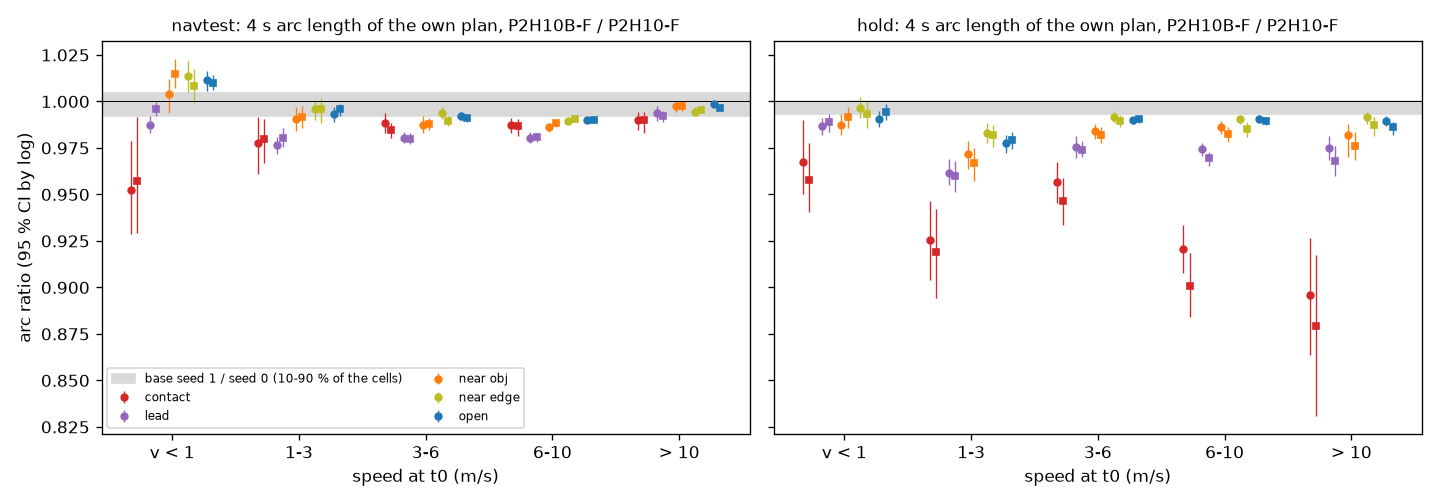
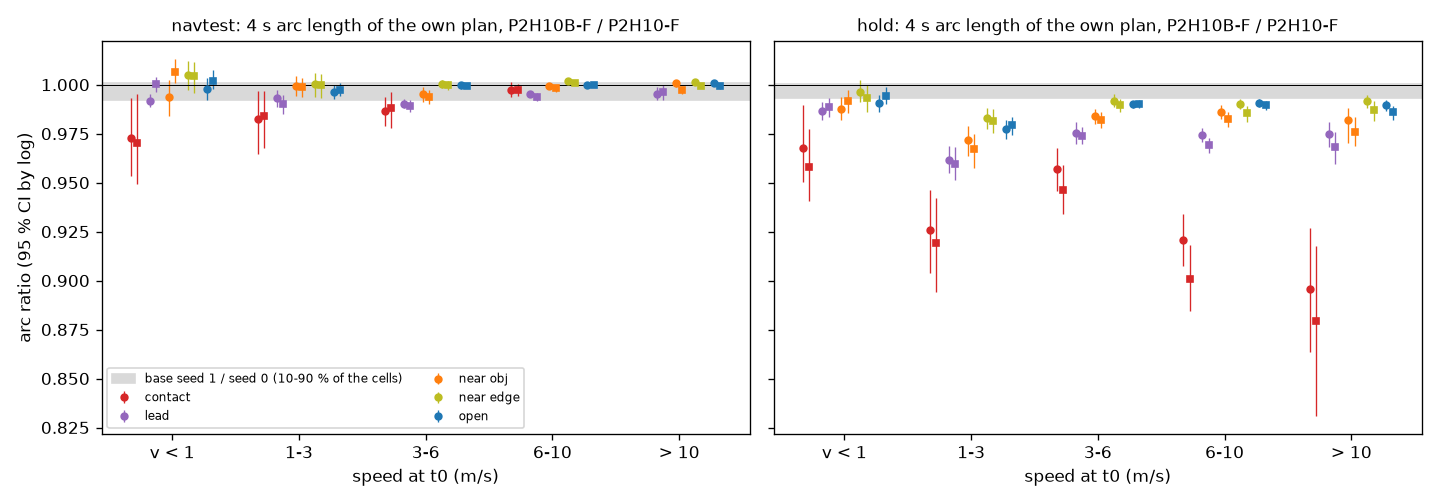
body1: three stale navtest figures redrawn on warp-frame tables (shape_fig.py --res, prog_cl.py figs --warp / --warp-cl), notes removed; Chinese page second-reader check: stale G3 (b) sum row and the lead / open split of section 11 replaced by warp-frame values

diff --git a/research/body1/index.html b/research/body1/index.html
@@ -161,7 +161,7 @@ code{font-size:13px}
 <table><tr><th>项</th><th>线</th><th>seed 0</th><th>seed 1</th><th>结果</th></tr>
 <tr><td>(a) hold logs agent 接触率（30 083 个状态，121 个 log）</td><td>降 ≥ 30%，CI 不含 0</td><td>0.01403 对 0.02729（−48.6%）</td><td>0.01380 对 0.02666（−48.3%）</td><td>过</td></tr>
 <tr><td>(a) hold logs boundary 率</td><td>降 ≥ 30%</td><td>0.01569 对 0.03377（−53.5%）</td><td>0.01582 对 0.03384（−53.2%）</td><td>过</td></tr>
-<tr><td>(b) navtest on-log（12 146 个 token）两率之和</td><td>两率不升，和降</td><td>0.04232 对 0.04841（−12.6%）</td><td>0.04084 对 0.04858（−15.9%）</td><td>过（agent 率只降 6–8%，不显著）</td></tr>
+<tr><td>(b) navtest on-log（12 146 个 token）两率之和</td><td>两率不升，和降</td><td>0.02421 对 0.02865（−15.5%；原读数 0.04232 对 0.04841）</td><td>0.02470 对 0.02898（−14.8%；原读数 0.04084 对 0.04858）</td><td>过（warp 帧上 agent 率降 16–18%，CI 不含 0；原读数 6–8%，不显著）</td></tr>
 <tr><td>(c) 续接斜率 alpha_05</td><td>≤ P2H10-F + 0.05</td><td>0.833 对 1.028</td><td>0.827 对 1.037</td><td>过</td></tr>
 <tr><td>(d) navtest EPDMS（两 seed 均值）</td><td>≥ base − 0.3</td><td colspan="2">89.19 对 88.67（+0.52 [+0.35, +0.70]）</td><td>过</td></tr>
 <tr><td>(d) &gt; 45° 桶 EPDMS</td><td>报告</td><td colspan="2">79.55 对 78.61（+0.93 [+0.28, +1.62]）；inside-cut 4.15% 对 4.78%；cannot-make-turn 2.70% 对 2.60%（不变）</td><td>报告</td></tr>
@@ -198,7 +198,7 @@ code{font-size:13px}
 <tr><td>hold logs <code>yr1</code></td><td>7 366</td><td>0.9779</td><td>0.9853</td><td>0.9616</td></tr>
 <tr><td>hold logs <code>bd4</code></td><td>4 425</td><td>0.9391</td><td>0.9612</td><td>0.9271</td></tr></table>
 <p>base 两个 seed 之间的 floor 在 navtest 上是 0.9995（原读数 1.0003）。离 log 越远变短越重：imitation 行 0.999（有 logged target 顶住），<code>ot1</code> 1.0%、<code>yr1</code> 2.2%、<code>bd4</code> 6.1%。navtest 的 on-log 状态上不是全局变短：open 路段 0.9998 / 0.9995，变短只在 lead 后面（0.9931，占弧长差总和的 63 至 83%）与 contact 状态（0.9914）；原读数的「全局变短 0.7 至 1.8%」是读错帧造成的。launch（&lt; 1 m/s）0.995 / 1.001。</p>
-<figure><img src="figs/prog_ol_arc.png" alt=""><figcaption>图二十七（左图仍是原读数，画的是 GIMM 帧上的 plan；warp 帧上只有 lead 与 contact 两组低于 seed-floor 带）：左，navtest：每个组、高于 1 m/s 的速度桶几乎都在灰色 seed-floor 带下面，lead（紫）在无接触的组里最低；右，hold 状态（四分之三是离轨）：顺序相同、幅度约三倍，contact 状态（红）降到 0.88 至 0.93。</figcaption></figure>
+<figure><img src="figs/prog_ol_arc.png" alt=""><figcaption>图二十七：左，navtest（warp 帧）：open、near obj、near edge 在每个速度桶都在灰色 seed-floor 带内或之上；只有 contact（红，6 m/s 以下，0.97 至 0.99）与 lead（紫，0.990 至 0.995）低于带，lead 只比带的下沿低 0.002 至 0.01；右，hold 状态（四分之三是离轨）：顺序相同、幅度约三倍，contact 状态（红）降到 0.88 至 0.93。</figcaption></figure>
 <h3>闭环：700 × 2 seed 的 1 400 个 (seed, scene) 对，scene 的组取其 navtest token</h3>
 <table><tr><th>scene</th><th>对数</th><th>progress 臂 − base [95% CI，按 log]</th><th>占损失</th><th>满分 → 偏慢</th><th>偏慢 → 满分</th><th>served plan 弧长比（全部决策）</th></tr>
 <tr><td>全部</td><td>1 400</td><td>−0.0145 [−0.0203, −0.0085]</td><td>100%</td><td>78</td><td>23</td><td>0.976</td></tr>
@@ -207,7 +207,7 @@ code{font-size:13px}
 <tr><td>转角 &lt; 10°</td><td>994</td><td>−0.0184 [−0.0242, −0.0128]</td><td>90%</td><td>57</td><td>16</td><td>0.969</td></tr>
 <tr><td>转角 &gt; 45°</td><td>122</td><td>−0.0182 [−0.0412, +0.0019]</td><td>11%</td><td>9</td><td>0</td><td>0.987</td></tr></table>
 <p>lead 与 open 两行按 warp 帧上的 base plan 重新分组（原分组：lead 318 对、−0.0296、46%；open 658 对、−0.0099、32%、0.986），读法不变。lead 后面 plan 短 4 至 6%，lead scene 占 pair 的 23%、占损失的 49 至 50%；lead scene 上零分 9 → 3，偏慢 61 → 95。base 两个 seed 之间「满分 → 偏慢」的 floor 是 10 / 17，所以 78 对 23 在噪声之外。</p>
-<figure><img src="figs/prog_cl_progress.png" alt=""><figcaption>图二十八：左，对角线下方且低于 0.8 虚线的点是新增的偏慢 scene，多数是紫色（lead）；中，红柱（base 满分、臂偏慢的对）堆在 0.8 右边一点；右，各组的损失与占比。</figcaption></figure>
+<figure><img src="figs/prog_cl_progress.png" alt=""><figcaption>图二十八（按 warp 帧上的分组重画）：左，对角线下方且低于 0.8 虚线的点是新增的偏慢 scene，多数是紫色（lead）；中，红柱（base 满分、臂偏慢的对）堆在 0.8 右边一点；右，各组的损失与占比。</figcaption></figure>
 <h3>哪一项在拉</h3>
 <p>hinge 对 plan 8 个 pose 的梯度在 plan 自己的 heading 系里拆开（训练 log 的行）：agent hinge 在 imitation 行上 96% 的正例行梯度向后、每 batch 的弧长拉力 −0.0022，hinge-only 行上 84 至 88% 向后；同一路径缩到 0.75 弧长就能清零 76%（imitation 行）。road hinge 97 至 99.5% 是横向梯度，弧长拉力约 +0.0001。imitation 行有 logged target 顶住所以弧长没动，hinge-only 行没有反向项所以短了 1 至 6%。hinge-only 行上 A 与 road hinge 各占多少，当时没有分开（drop-one 当时未训，见第十节）。</p>
 <figure><img src="figs/prog_grad_terms.png" alt=""><figcaption>图二十九：左，agent 项（第一、三、五、七组）10 至 45% 的梯度沿路径，road 项几乎没有；中，唯一明显为负的柱是 agent 项，imitation 行最大；右，缩短弧长能解掉相当一部分 agent 正例（imitation 行、ot1 行为主），很少解掉 road 正例。橙 = base checkpoint，蓝 = 训练后。</figcaption></figure>
@@ -237,7 +237,7 @@ code{font-size:13px}
 <tr><td>(c) 续接斜率 alpha_05</td><td>≤ base + 0.05</td><td>0.822 对 1.028</td><td>0.830 对 1.037</td><td>过</td></tr>
 <tr><td>(d) navtest EPDMS（两 seed 均值）</td><td>≥ base − 0.3</td><td colspan="2">89.05 对 88.67（+0.38）</td><td>过</td></tr>
 <tr><td>(e) 4 s 弧长比 navtest / lead / <code>bd4</code></td><td>各自的线</td><td>1.0017 / 1.0007 / 0.9991（原 0.9996 / 0.9969）</td><td>1.0008 / 1.0004 / 0.9989（原 0.9984 / 0.9959）</td><td>过</td></tr></table>
-<figure><img src="figs/shape_gate.png" alt=""><figcaption>图三十二：左，蓝柱（本臂）在两条虚线之上，只让出全梯度配方（橙）约五分之一的 agent 降幅；中，蓝在每个组和状态族上都在 1.00，橙低 1 至 5%，绿（无 agent hinge）和紫（agent hinge 只放在 logged 行）各只是橙的一小部分；右，全量下每个蓝点都在自己的虚线之上，Amendment 5 的橙点有四个在线下。</figcaption></figure>
+<figure><img src="figs/shape_gate.png" alt=""><figcaption>图三十二：左，蓝柱（本臂）在两条虚线之上，只让出全梯度配方（橙）约五分之一的 agent 降幅；中，蓝在每个组和状态族上都在 1.00，橙低 1 至 5%，绿（无 agent hinge）和紫（agent hinge 只放在 logged 行）各只是橙的一小部分；右，全量下每个蓝点都在自己的虚线之上，Amendment 5 的橙点有三个在线下（hold pooled、yr1、bd4；navtest 的三个橙点都在线上）。</figcaption></figure>
 <p>代价：没有 timing 之后，navtest on-log 的 agent 接触率不再下降（warp 帧上 <code>P2H10S</code> 降 3.6% / 7.0%，CI 含 0；上一配方降 17.9% / 16.2%，CI 不含 0），上一配方在 navtest 上 NC / TTC 的增益消失，EP 回到 base；留出 log 上 agent 降幅保住约五分之四、出界约十分之九。pilot 规模的 drop-one：「B + C 不带 A」仍变短（弧长 0.9963，<code>bd4</code> 0.9868）且保住 agent −25.8% / boundary −30.9%，所以第八节说的「向后拉的是 agent hinge」只对大部分成立；「A 只放在 on-log 行」只缩 0.2%、两个接触率基本不动（−5.3% / −2.9%），效果来自离轨的 hinge-only 行。</p>
 <h3>base 自己的 seed spread（补充读数，不是线）</h3>
 <p>为读本臂新训了 <code>P2H10-F-s{2,3}</code> 并在同一 driver、同一 chunk 列表上跑 700 scene：</p>
@@ -284,9 +284,9 @@ code{font-size:13px}
 <p>去掉 = 在至少 3 个 base seed 里是 zero 且在至多 1 个臂 seed 里是 zero，新增反之。去掉 5 个（碰撞 2、offroad 2、corridor 1）：<code>80f6c94f</code>、<code>994ab680</code>（碰撞）、<code>fcb45b2a</code>、<code>00ff8eeb</code>（offroad）、<code>927b73fe</code>（corridor）；新增 4 个，全是 corridor、臂 4 个 seed 全 zero 且 base 4 个 seed 全不是：<code>78b4153a</code>（右转 48°）、<code>77155a60</code>（67°）、<code>e933d70d</code>（70°）、<code>52d3f15d</code>（55°）。四个 seed 都是 zero 的 scene：base 20 个、臂 17 个。这 9 个翻转全部也是 Amendment 5 那个臂的翻转（去掉的 5 个在它两个 seed 里都去掉，新增里 78b4153a 与 77155a60 两个 seed 都新增，e933d70d 与 52d3f15d 各出现在一个 seed）。该规则没有 base 对 base 的类比（需要 4 对 4），所以翻转数没有 null；作参照，base 的 12 个有序配对在单对上各有 1 至 5 个去掉与 1 至 5 个新增。</p>
 <h3>lead / open 拆分与 &gt; 45° 桶</h3>
 <table><tr><th>分组（scene 的 navtest token，base plan 的 proximity 组）</th><th>scene 数</th><th>base / 臂 均 progress</th><th>每对差 [95% CI，按 log]</th><th>N1 / N2 范围</th><th>偏慢（四对之和）base → 臂</th><th>是否在 spread 之外</th></tr>
-<tr><td>lead</td><td>159</td><td>0.919 / 0.930</td><td>+0.0115 [+0.0038, +0.0203]</td><td>±0.0203 / ±0.0128</td><td>137 → 137</td><td>否</td></tr>
-<tr><td>open</td><td>329</td><td>0.945 / 0.952</td><td>+0.0078 [+0.0032, +0.0126]</td><td>±0.0058 / ±0.0038</td><td>190 → 164</td><td><b>progress 高于全部 24 个</b>；偏慢否</td></tr></table>
-<p>Amendment 5 的臂在同一拆分上 lead −0.0296、open −0.0099（第八节）；形状-only 的臂不在 lead 后面变慢，progress 高于 base，open 上最明显。</p>
+<tr><td>lead</td><td>158</td><td>0.924 / 0.933</td><td>+0.0094 [+0.0021, +0.0170]</td><td>±0.0199 / ±0.0124</td><td>133 → 132</td><td>否</td></tr>
+<tr><td>open</td><td>349</td><td>0.940 / 0.949</td><td>+0.0093 [+0.0046, +0.0144]</td><td>±0.0063 / ±0.0044</td><td>206 → 170</td><td><b>progress 高于全部 24 个</b>；偏慢否</td></tr></table>
+<p>Amendment 5 的臂在同一拆分上 lead −0.0314、open −0.0105（第八节）；形状-only 的臂不在 lead 后面变慢，progress 在 lead 与 open 上都高于 base（+0.0094 与 +0.0093）：lead 的区间不含 0 但仍在 base 的 seed spread 之内，open 高于 spread 的全部成员。（2026-10-11 更正：原分组下是 lead +0.0115、open +0.0078，「open 上最明显」不再成立。）</p>
 <table><tr><th>&gt; 45° 桶（61 个 scene、20 个 log）</th><th>均分</th><th>zeros</th><th>碰撞 / offroad / corridor</th></tr>
 <tr><td>P2H10-F s0 / s1 / s2 / s3</td><td>0.8143 / 0.8544 / 0.8682 / 0.8443</td><td>10 / 8 / 7 / 8（33）</td><td>6 / 19 / 8</td></tr>
 <tr><td>P2H10S-F s0 / s1 / s2 / s3</td><td>0.8233 / 0.7578 / 0.8244 / 0.8453</td><td>10 / 14 / 10 / 9（43）</td><td>5 / 21 / 17</td></tr>

diff --git a/experiments/body1/scripts/prog_cl.py b/experiments/body1/scripts/prog_cl.py
@@ -265,6 +265,7 @@ def cmd_raster(a):
 
 
 def cmd_figs(a):
+    """--warp DIR: read the navtest arc table (ol_navtest_w_arc.csv), cl_pairs.csv and cl_groups.csv from DIR (results/navtest_warp/prog[_cl]); the hold arc table stays in OUT."""
     import matplotlib
     matplotlib.use("Agg")
     import matplotlib.pyplot as plt
@@ -273,7 +274,7 @@ def cmd_figs(a):
     col = dict(zip(GROUPS, ["tab:red", "tab:purple", "tab:orange", "tab:olive", "tab:blue"]))
     fig, ax = plt.subplots(1, 2, figsize=(12, 4.2), sharey=True)
     for q, st in zip(ax, ("navtest", "hold")):
-        f = OUT / f"ol_{st}_arc.csv"
+        f = Path(a.warp) / "ol_navtest_w_arc.csv" if a.warp and st == "navtest" else OUT / f"ol_{st}_arc.csv"
         if not f.exists():
             continue
         D = pd.read_csv(f)
@@ -295,7 +296,8 @@ def cmd_figs(a):
     fig.tight_layout()
     fig.savefig(FIG / "ol_arc.png", dpi=120)
     plt.close(fig)
-    f = OUT / "cl_pairs.csv"
+    CL = Path(a.warp_cl) if a.warp_cl else OUT
+    f = CL / "cl_pairs.csv"
     if f.exists():
         P = pd.read_csv(f)
         fig, ax = plt.subplots(1, 3, figsize=(15, 4.6))
@@ -315,7 +317,7 @@ def cmd_figs(a):
         ax[1].axvline(0.8, color="k", ls=":", lw=0.8)
         ax[1].set_xlabel("progress of the base run"), ax[1].set_ylabel("pairs"), ax[1].legend(fontsize=8)
         ax[1].set_title("the extra slow scenes sit just above the 0.8 line in the base run", fontsize=9)
-        G = pd.read_csv(OUT / "cl_groups.csv")
+        G = pd.read_csv(CL / "cl_groups.csv")
         d = G[G.split == "group"].set_index("subset").reindex(GROUPS)
         x = np.arange(len(d))
         ax[2].bar(x, d.dprog_nz, yerr=[d.dprog_nz - d.lo_nz, d.hi_nz - d.dprog_nz], color=[col[g] for g in GROUPS], capsize=3)
@@ -361,6 +363,8 @@ if __name__ == "__main__":
     ap.add_argument("--man", default=MAN, help="manifest {<arm>-s0: [run dirs], <arm>-s1: [...]} under $DATA_DIR")
     ap.add_argument("--ol", default=OLN, help="prog_ol.py parquet stem under runs/body1/prog")
     ap.add_argument("--out", default="", help="table / figure sub-directory name instead of prog (results/<out>, figs/<out>)")
+    ap.add_argument("--warp", default="", help="figs: directory with the warp-frame navtest arc table ol_navtest_w_arc.csv")
+    ap.add_argument("--warp-cl", default="", help="figs: directory with the re-read cl_pairs.csv / cl_groups.csv")
     a = ap.parse_args()
     ARM, MAN, OLN = a.arm, a.man, a.ol
     if a.out:

diff --git a/experiments/body1/scripts/shape_fig.py b/experiments/body1/scripts/shape_fig.py
@@ -1,7 +1,9 @@
 """BODY1 arm 4.3, Amendment 6: figure of the pilot gate and of G3 (e) from results/shape/{pilot_gate,g3e}.json (no model).
 
-  $DATA_DIR/envs/op-train/bin/python experiments/body1/scripts/shape_fig.py     -> experiments/body1/figs/shape/shape_gate.png
+  $DATA_DIR/envs/op-train/bin/python experiments/body1/scripts/shape_fig.py [--res experiments/body1/results/navtest_warp/shape]
+                                                                          -> experiments/body1/figs/shape/shape_gate.png
 """
+import argparse
 import json
 import sys
 from pathlib import Path
@@ -15,13 +17,13 @@ NM = {"P2H10S-P-s0": "shape-only arm", "P2H10B-Pw3-s0": "all terms, full gradien
 COL = {"P2H10S-P-s0": "tab:blue", "P2H10B-Pw3-s0": "tab:orange", "P2H10B-Pw3-noA-s0": "tab:green", "P2H10B-P-Aon-s0": "tab:purple"}
 
 
-def main():
+def main(res=RES):
     import matplotlib
     matplotlib.use("Agg")
     import matplotlib.pyplot as plt
     from jevdrive.run import Run
     with Run("body1", "shape-fig") as run:
-        P, G = json.loads((RES / "pilot_gate.json").read_text())["tags"], json.loads((RES / "g3e.json").read_text())["lines"]
+        P, G = json.loads((res / "pilot_gate.json").read_text())["tags"], json.loads((res / "g3e.json").read_text())["lines"]
         fig, ax = plt.subplots(1, 3, figsize=(17, 4.6), gridspec_kw=dict(width_ratios=[0.8, 1.5, 1.3]))
         tags = list(NM)
         for i, t in enumerate(tags):                                  # pilot: relative fall of the two own-plan rates
@@ -58,4 +60,6 @@ def main():
 
 
 if __name__ == "__main__":
-    main()
+    ap = argparse.ArgumentParser()
+    ap.add_argument("--res", default=str(RES), help="directory with pilot_gate.json and g3e.json (results/navtest_warp/shape for the warp-frame navtest read)")
+    main(Path(ap.parse_args().res))

diff --git a/experiments/body1/results/progress_diagnosis.md b/experiments/body1/results/progress_diagnosis.md
@@ -13,7 +13,7 @@ pooled ratio is 0.9985 / 0.9980 (was 0.9905), open-road tokens are not shortened
 (0.9931, was 0.982) and on contact states. What does not change: the hold-log ratios, every closed-loop number (scores, progress, the served-plan arcs
 of `drive.jsonl`), the gradient split, and therefore verdicts 1, 3, 4 and the closed-loop half of 2. The closed-loop tables that group scenes by the
 base plan at the navtest token are regrouped on the scored plans (2 to 40 pairs move per group); the reading is the same. The figures
-`figs/prog/ol_arc.png` (left panel) and `cl_progress.png` (group colours) still show the first read.
+`figs/prog/ol_arc.png` (left panel) and `cl_progress.png` were redrawn on the warp-frame tables on 2026-10-11 (`prog_cl.py figs --warp ... --warp-cl ...`).
 
 ## Verdict
 
@@ -66,9 +66,9 @@ difference), 1.8 % behind a lead (under 20 m: 0.979 to 0.981; 20 to 40 m: 0.992;
 off-protocol frames (17.95 m), not the checkpoint, and is not a number of decision 221.
 
 ![ol](../figs/prog/ol_arc.png)
-What to look at (the left panel is the first read on off-protocol plans; on the scored plans only the lead and contact groups sit below the seed-floor
-band): left, navtest: every group and every speed bin above 1 m/s sits below the grey seed-floor band, lead (purple) lowest among the groups
-without contact; right, hold states (three quarters off-track): the same order, three times larger, contact states (red) down to 0.88 to 0.93.
+What to look at (left panel redrawn on the warp-frame table `results/navtest_warp/prog/ol_navtest_w_arc.csv`; right panel unchanged, hold states): left, navtest:
+open, near obj and near edge sit inside or above the grey seed-floor band at every speed; only contact (red, below 6 m/s, 0.97 to 0.99) and lead (purple,
+0.990 to 0.995) sit below it, and the lead cells are only 0.002 to 0.01 under the band's lower edge; right, hold states (three quarters off-track): the same order, three times larger, contact states (red) down to 0.88 to 0.93.
 
 **Closed loop** (`results/navtest_warp/prog_cl/cl_groups.csv`, groups from the base plan on warp frames; first read `results/prog/cl_groups.csv`; 1 400 (seed, scene) pairs, the scene's group taken at its navtest token; progress = `progress_clipped_rel`;
 "nz" = pairs with no zero on either side; arc ratios are of the served plans in `drive.jsonl`):
@@ -96,8 +96,9 @@ behind leads that the base passed without contact (lead scenes: zeros 9 -> 3, bu
 includes 0; their decision-0 plan is 5 % shorter, later decisions are not.
 
 ![cl](../figs/prog/cl_progress.png)
-What to look at: left, the points below the diagonal that fall under the dotted 0.8 line are the new slow scenes, mostly purple (lead); middle, the red
-bars (base-score-1 pairs that become slow) pile up just right of 0.8; right, the loss per group with its share.
+What to look at (redrawn on the warp-frame grouping, `results/navtest_warp/prog_cl/`): left, the points below the diagonal that fall under the dotted 0.8 line
+are the new slow scenes, mostly purple (lead); middle, the red bars (base-score-1 pairs that become slow) pile up just right of 0.8 (this panel does not depend on
+the grouping); right, the loss per group with its share (lead about half of the loss).
 
 ## 2. Which loss term does it
 

diff --git a/experiments/body1/results/shape_pilot.md b/experiments/body1/results/shape_pilot.md
@@ -17,7 +17,7 @@ the old number. **The registered miss does not survive: G3 (b) on seed 0 read 14
 against 140 on the scored ones; with it every line of G3 is met on both seeds.** The arm was stopped before its registered closed loop on a
 number that came from the reader. This page does not reopen the arm; whether the registered closed-loop read is owed is for the main session
 (decision 232). Hold-log rates, the pilot gate (its lines are on hold logs), the slope, the bench numbers, the code checks and the base's
-closed-loop seed spread are not navtest own-plan reads and are unchanged. The figure `figs/shape/shape_gate.png` still shows the first read in its
+closed-loop seed spread are not navtest own-plan reads and are unchanged. The figure `figs/shape/shape_gate.png` was redrawn on 2026-10-11 from `results/navtest_warp/shape/` (the hold points are unchanged); before that it showed the first read in its
 navtest points.
 
 ## Verdict
@@ -47,7 +47,7 @@ navtest points.
 What to look at: left, the blue bars (this arm) stay above both dotted lines while giving up a fifth of the orange (full gradient) agent fall;
 middle, blue sits on 1.00 in every group and family where orange is 1 to 5 % below, green (no agent hinge) and purple (agent hinge on logged rows
 only) are each a fraction of orange; right, at full scale every blue point is above its dotted line and the orange points of Amendment 5 are below
-four of them.
+three of them (hold pooled, `yr1`, `bd4`; the three navtest points of orange are above their lines).
 
 ## 1. Code checks before the pilot (note (a); `results/shape/shape_check.json`, `ident_a6.json`)
 

diff --git a/experiments/body1/results/navtest_warp.md b/experiments/body1/results/navtest_warp.md
@@ -104,8 +104,8 @@ made, a descriptive four-seed closed loop exists (decision 233), and whether the
 table, seeds 2 and 3), [loss_g3.md](loss_g3.md) (G3 (b) of Amendment 5), [progress_diagnosis.md](progress_diagnosis.md) (open-loop navtest arcs,
 the group tables), [shape_closed_loop.md](shape_closed_loop.md) (lead / open split), the lane README and its `experiments/INDEX.md` line, the
 Chinese page `research/body1/index.html`, decisions 229, 230, 232, 233, 234, 244 and their lines in `research/decisions.md`. Each replaced
-passage names the first read's number. Figures were not redrawn: `figs/shape/shape_gate.png` (navtest points), `figs/prog/ol_arc.png` (left
-panel) and the group colours of `figs/prog/cl_progress.png` show the first read; their pages say so. Identity of the fixed reader over all
+passage names the first read's number. Figures redrawn the same night from the warp-frame tables (`shape_fig.py --res`, `prog_cl.py figs --warp --warp-cl`): `figs/shape/shape_gate.png`
+(navtest points), `figs/prog/ol_arc.png` (left panel) and `figs/prog/cl_progress.png` (group colours); the old files are superseded in git history. Identity of the fixed reader over all
 12 146 tokens (8 poses): forward on warp frames against the bench's archived plans 0.004 m mean, 0.028 m at the 99th percentile, 0.07 m at most
 (four checkpoints); the first read's dumps against the same archived plans 1.34 to 1.45 m mean, 6 m at the 99th percentile.
 
